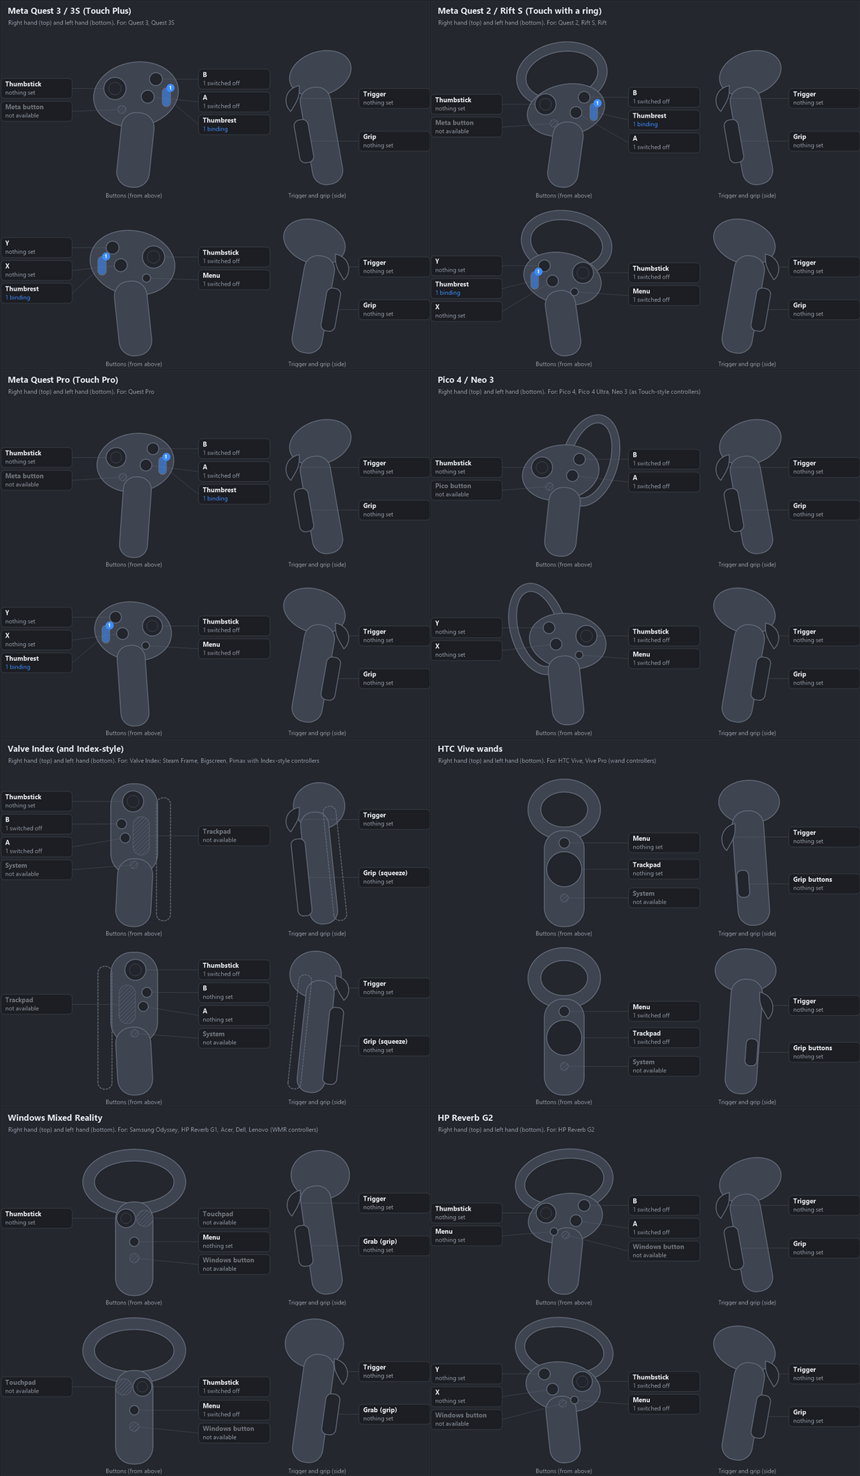
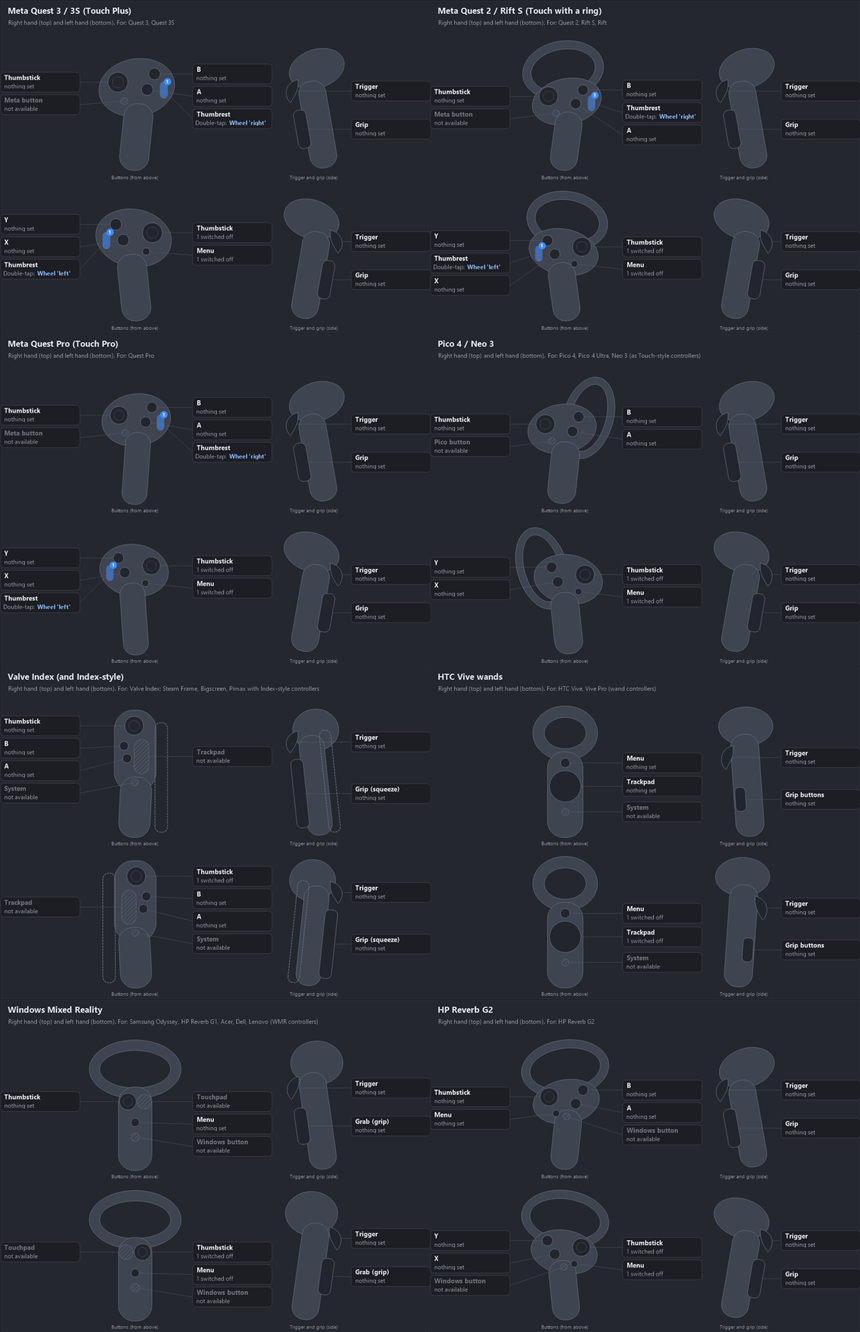
Controller pages: tags around the picture list what each button does (SteamVR style: 'Press: Space', 'shift · Press: F5'); picture grows to fit; bigger tag text

diff --git a/editor/ControllerPicture.cs b/editor/ControllerPicture.cs
@@ -5,22 +5,30 @@ namespace OpenXRCompanionEditor;
 // How many bindings a part has: switched on, and switched off.
 public readonly record struct PartUse(int On, int Off);
 
-// Draws one controller (a ControllerLayout, for one hand) with a name tag for each part, and says which part
-// was clicked. Parts that already do something get a count badge; the selected part is outlined.
+// One line in a part's tag: how it's used ("Press", "Hold", "Up") and what it does ("Space"); Layer when it only
+// works in a layer.
+public readonly record struct TagLine(string When, string Does, string Layer = null);
+
+// Draws one controller (a ControllerLayout, for one hand) with a tag for each part that lists what the part does,
+// like SteamVR's binding screen, and says which part was clicked. The selected part is outlined.
 public class ControllerPicture : Control
 {
     // Design canvas: [labels][top view][labels][side view][labels], see ControllerLayouts for the view sizes.
     // Top-view parts are named on whichever side of the top view they sit, so leader lines don't cross the body.
-    const float LabelWidth = 128, Gap = 10, CanvasMargin = 14, TagHeight = 34, TagGap = 5;
+    // Tags grow with their lines, and the canvas grows taller when a column of tags needs it.
+    const float LabelWidth = 158, Gap = 10, CanvasMargin = 14, TagGap = 5;
+    const float NameHeight = 19, LineHeight = 14.5f, MinTagHeight = 38;
+    const int MaxLines = 4;
     const float TopX = LabelWidth, MiddleX = TopX + ControllerLayouts.TopWidth + Gap;
     const float SideX = MiddleX + LabelWidth + Gap;
     const float CanvasWidth = SideX + ControllerLayouts.SideWidth + LabelWidth;
-    const float CanvasHeight = ControllerLayouts.Height + 2 * CanvasMargin;
+    const float ViewsHeight = ControllerLayouts.Height + 2 * CanvasMargin;
 
     ControllerLayout layout = ControllerLayouts.All[0];
     int hand = 1;
     string selected, hovered;
     Func<ControllerPart, PartUse> useOf = _ => default;
+    Func<ControllerPart, IReadOnlyList<TagLine>> linesOf = _ => Array.Empty<TagLine>();
     readonly List<(ControllerPart part, GraphicsPath shape, RectangleF tag)> hits = new();
 
     public event Action<ControllerPart> PartClicked;
@@ -31,14 +39,20 @@ public class ControllerPicture : Control
         Cursor = Cursors.Hand;
     }
 
-    public void ShowController(ControllerLayout newLayout, int newHand, string selectedComp, Func<ControllerPart, PartUse> use)
+    // lines: what each part does, listed in its tag (none: just "1 binding" and so on).
+    public void ShowController(ControllerLayout newLayout, int newHand, string selectedComp, Func<ControllerPart, PartUse> use,
+                               Func<ControllerPart, IReadOnlyList<TagLine>> lines = null)
     {
         layout = newLayout;
         hand = newHand;
         selected = selectedComp;
         useOf = use;
+        linesOf = lines ?? (_ => Array.Empty<TagLine>());
         Invalidate();
     }
+
+    // The height that shows the whole picture at this width.
+    public int HeightFor(int width) => (int)Math.Ceiling(width * CanvasHeight() / CanvasWidth);
 
     public string Selected
     {
@@ -47,21 +61,30 @@ public class ControllerPicture : Control
     }
 
     // A picture of one controller as a bitmap (previews and screenshots).
-    public static Bitmap Render(ControllerLayout layout, int hand, string selectedComp, Func<ControllerPart, PartUse> use, int width)
+    public static Bitmap Render(ControllerLayout layout, int hand, string selectedComp, Func<ControllerPart, PartUse> use, int width,
+                                Func<ControllerPart, IReadOnlyList<TagLine>> lines = null)
     {
-        using var pic = new ControllerPicture { Size = new Size(width, (int)(width * CanvasHeight / CanvasWidth)), BackColor = Theme.Card };
-        pic.ShowController(layout, hand, selectedComp, use);
+        using var pic = new ControllerPicture { Width = width, BackColor = Theme.Card };
+        pic.ShowController(layout, hand, selectedComp, use, lines);
+        pic.Height = pic.HeightFor(width);
         var bmp = new Bitmap(pic.Width, pic.Height);
         pic.DrawToBitmap(bmp, new Rectangle(Point.Empty, pic.Size));
         return bmp;
     }
 
     // ------------------------------------------------------------ geometry
+    float CanvasHeight()
+    {
+        var tags = TagBoxes(layout.PartsFor(hand).ToList());
+        return Math.Max(ViewsHeight, tags.Count == 0 ? 0 : tags.Values.Max(t => t.Bottom) + CanvasMargin);
+    }
+
     Matrix CanvasToScreen()
     {
-        float s = Math.Min(Width / CanvasWidth, Height / CanvasHeight);
+        float canvasHeight = CanvasHeight();
+        float s = Math.Min(Width / CanvasWidth, Height / canvasHeight);
         var m = new Matrix();
-        m.Translate((Width - CanvasWidth * s) / 2, (Height - CanvasHeight * s) / 2);
+        m.Translate((Width - CanvasWidth * s) / 2, 0);
         m.Scale(s, s);
         return m;
     }
@@ -178,7 +201,16 @@ public class ControllerPicture : Control
         _ => CanvasWidth - LabelWidth + 6,
     };
 
-    // Name tags at the height of their part, pushed apart so they never overlap.
+    // Lines shown in a tag: up to MaxLines, the last saying how many more when there are more.
+    int ShownLines(ControllerPart part)
+    {
+        int n = part.IsUsable ? linesOf(part).Count : 0;
+        return n <= MaxLines ? n : MaxLines;
+    }
+
+    float TagHeightOf(ControllerPart part) => Math.Max(MinTagHeight, NameHeight + 4 + Math.Max(1, ShownLines(part)) * LineHeight);
+
+    // Tags centred on their part's height, pushed down so they never overlap (the canvas grows to fit them).
     Dictionary<ControllerPart, RectangleF> TagBoxes(IReadOnlyList<ControllerPart> parts)
     {
         var tags = new Dictionary<ControllerPart, RectangleF>();
@@ -186,15 +218,15 @@ public class ControllerPicture : Control
         {
             float x = ColumnX(col);
             var column = parts.Where(p => ColumnOf(p) == col)
-                              .Select(p => (part: p, y: Place(p.View, p.Box).Y + p.Box.Height / 2 - TagHeight / 2))
+                              .Select(p => (part: p, h: TagHeightOf(p), y: Place(p.View, p.Box).Y + p.Box.Height / 2 - TagHeightOf(p) / 2))
                               .OrderBy(t => t.y).ToList();
-            var ys = column.Select(t => t.y).ToArray();
-            for (int i = 0; i < ys.Length; i++) // down: no overlap with the tag above
-                ys[i] = Math.Max(ys[i], i == 0 ? CanvasMargin : ys[i - 1] + TagHeight + TagGap);
-            for (int i = ys.Length - 1; i >= 0; i--) // up: stay on the canvas
-                ys[i] = Math.Min(ys[i], i == ys.Length - 1 ? CanvasHeight - CanvasMargin - TagHeight : ys[i + 1] - TagHeight - TagGap);
-            for (int i = 0; i < column.Count; i++)
-                tags[column[i].part] = new RectangleF(x, ys[i], LabelWidth - 6, TagHeight);
+            float next = CanvasMargin;
+            foreach (var (part, h, y) in column)
+            {
+                float top = Math.Max(y, next);
+                tags[part] = new RectangleF(x, top, LabelWidth - 6, h);
+                next = top + h + TagGap;
+            }
         }
         return tags;
     }
@@ -237,8 +269,8 @@ public class ControllerPicture : Control
         using var f = new Font("Segoe UI", 7.5f);
         using var b = new SolidBrush(Theme.SubText);
         var center = new StringFormat { Alignment = StringAlignment.Center };
-        g.DrawString("Buttons (from above)", f, b, new RectangleF(TopX, CanvasHeight - CanvasMargin + 1, ControllerLayouts.TopWidth, 14), center);
-        g.DrawString("Trigger and grip (side)", f, b, new RectangleF(SideX - 10, CanvasHeight - CanvasMargin + 1, ControllerLayouts.SideWidth + 20, 14), center);
+        g.DrawString("Buttons (from above)", f, b, new RectangleF(TopX, ViewsHeight - CanvasMargin + 1, ControllerLayouts.TopWidth, 14), center);
+        g.DrawString("Trigger and grip (side)", f, b, new RectangleF(SideX - 10, ViewsHeight - CanvasMargin + 1, ControllerLayouts.SideWidth + 20, 14), center);
     }
 
     void DrawBody(Graphics g)
@@ -296,7 +328,7 @@ public class ControllerPicture : Control
     {
         var b = shape.GetBounds();
         var from = new PointF(b.X + b.Width / 2, b.Y + b.Height / 2);
-        var to = new PointF(ColumnOf(part) == TagColumn.Left ? tag.Right : tag.Left, tag.Y + tag.Height / 2);
+        var to = new PointF(ColumnOf(part) == TagColumn.Left ? tag.Right : tag.Left, tag.Y + Math.Min(tag.Height / 2, NameHeight));
         using var pen = new Pen(Color.FromArgb(part.Comp == selected ? 220 : 110, part.Comp == selected ? SelectedEdge : BodyEdge), part.Comp == selected ? 1.6f : 1f);
         g.DrawLine(pen, from, to);
     }
@@ -313,17 +345,43 @@ public class ControllerPicture : Control
             g.FillPath(fill, p);
             g.DrawPath(edge, p);
         }
-        using var nameFont = new Font("Segoe UI", 8.5f, FontStyle.Bold);
-        using var subFont = new Font("Segoe UI", 7.5f);
+        using var nameFont = new Font("Segoe UI", 9.5f, FontStyle.Bold);
+        using var subFont = new Font("Segoe UI", 8.5f);
         using var text = new SolidBrush(part.IsUsable ? Theme.Text : Theme.OffText);
         using var sub = new SolidBrush(count > 0 ? Accent : Theme.SubText);
         var fmt = new StringFormat { Trimming = StringTrimming.EllipsisCharacter, FormatFlags = StringFormatFlags.NoWrap };
         g.DrawString(part.LabelFor(hand), nameFont, text, new RectangleF(tag.X + 6, tag.Y + 2, tag.Width - 10, 16), fmt);
-        string status = !part.IsUsable ? "not available"
-                        : count > 0 ? (count == 1 ? "1 binding" : count + " bindings") + (use.Off > 0 ? $", {use.Off} off" : "")
-                        : use.Off > 0 ? $"{use.Off} switched off"
-                                      : "nothing set";
-        g.DrawString(status, subFont, sub, new RectangleF(tag.X + 6, tag.Y + 17, tag.Width - 10, 14), fmt);
+        var lines = part.IsUsable ? linesOf(part) : Array.Empty<TagLine>();
+        if (lines.Count == 0)
+        {
+            string status = !part.IsUsable ? "not available"
+                            : count > 0 ? (count == 1 ? "1 binding" : count + " bindings") + (use.Off > 0 ? $", {use.Off} off" : "")
+                            : use.Off > 0 ? $"{use.Off} switched off"
+                                          : "nothing set";
+            g.DrawString(status, subFont, sub, new RectangleF(tag.X + 6, tag.Y + NameHeight, tag.Width - 10, 14), fmt);
+            return;
+        }
+        using var whenBrush = new SolidBrush(Theme.SubText);
+        using var doesBrush = new SolidBrush(Theme.IsDark ? Color.FromArgb(140, 190, 255) : Color.FromArgb(30, 95, 200));
+        using var doesFont = new Font("Segoe UI", 8.5f, FontStyle.Bold);
+        using var exact = (StringFormat)StringFormat.GenericTypographic.Clone();
+        exact.FormatFlags |= StringFormatFlags.MeasureTrailingSpaces; // keep the space after "Press:"
+        int shown = ShownLines(part);
+        for (int i = 0; i < shown; i++)
+        {
+            float y = tag.Y + NameHeight + i * LineHeight;
+            bool isMoreLine = i == MaxLines - 1 && lines.Count > MaxLines;
+            if (isMoreLine)
+            {
+                g.DrawString($"+ {lines.Count - MaxLines + 1} more", subFont, whenBrush, new RectangleF(tag.X + 6, y, tag.Width - 10, 14), fmt);
+                break;
+            }
+            var line = lines[i];
+            string when = (line.Layer != null ? line.Layer + " · " : "") + line.When + ": ";
+            float whenWidth = g.MeasureString(when, subFont, PointF.Empty, exact).Width;
+            g.DrawString(when, subFont, whenBrush, new PointF(tag.X + 6, y), exact);
+            g.DrawString(line.Does, doesFont, doesBrush, new RectangleF(tag.X + 6 + whenWidth, y, tag.Width - 12 - whenWidth, 14), fmt);
+        }
     }
 
     // ------------------------------------------------------------ mouse

diff --git a/editor/ControllerButtonsPage.cs b/editor/ControllerButtonsPage.cs
@@ -48,6 +48,7 @@ public class ControllerButtonsPage : UserControl
         chooserRow.Controls.Add(models);
 
         picture.BackColor = Theme.Card;
+        picture.SizeChanged += (s, e) => FitPictureHeight();
         picture.PartClicked += part =>
         {
             lastSelected[hand] = part.Comp;
@@ -89,7 +90,8 @@ public class ControllerButtonsPage : UserControl
     void ShowAll()
     {
         models.Text = "For: " + layout.Models;
-        picture.ShowController(layout, hand, SelectedPart?.Comp, p => QuickBindings.UseOf(profile.Bindings, hand, p));
+        picture.ShowController(layout, hand, SelectedPart?.Comp, p => QuickBindings.UseOf(profile.Bindings, hand, p), p => TagLinesOf(profile.Bindings, hand, p));
+        FitPictureHeight();
         ShowDetails();
     }
 
@@ -157,6 +159,50 @@ public class ControllerButtonsPage : UserControl
         return card;
     }
 
+    // The picture grows with its tags (a tag lists what its part does).
+    void FitPictureHeight()
+    {
+        int h = picture.HeightFor(Math.Max(picture.Width, 1));
+        if (picture.Width > 0 && picture.Height != h)
+            picture.Height = h;
+    }
+
+    // What a part's tag lists, SteamVR style: one line per switched-on binding, normal ones first, layer ones after.
+    public static IReadOnlyList<TagLine> TagLinesOf(IEnumerable<BindingModel> bindings, int hand, ControllerPart part)
+    {
+        var lines = new List<TagLine>();
+        if (!part.IsUsable)
+            return lines;
+        foreach (bool layerOnes in new[] { false, true })
+            foreach (var way in part.Ways)
+            {
+                string input = ControllerLayouts.InputOf(hand, part, way);
+                foreach (var b in bindings.Where(b => b.Enabled && IsLayerOnly(b) == layerOnes && QuickBindings.FiredBy(b, input)))
+                    lines.Add(new TagLine(ShortWhen(part, way, b), DoesText(b.Action), layerOnes ? b.Layers : null));
+            }
+        return lines;
+    }
+
+    // "Press", "Hold", "Touch", "Up", "Up, hold", "Pull"...
+    static string ShortWhen(ControllerPart part, string way, BindingModel b)
+    {
+        string gesture = WhenText(b);
+        string wayWord = way switch
+        {
+            "touch" => "Touch",
+            "up" => "Up",
+            "down" => "Down",
+            "left" => "Left",
+            "right" => "Right",
+            _ => null,
+        };
+        if (wayWord == null && b.Gesture == GestureKind.Press)
+            return part.Comp switch { "trigger" => "Pull", "grip" => "Squeeze", "thumbrest" => "Touch", _ => gesture };
+        if (wayWord == null)
+            return gesture;
+        return b.Gesture == GestureKind.Press ? wayWord : wayWord + ", " + gesture.ToLowerInvariant();
+    }
+
     static bool IsTouchOnly(ControllerPart part, string way) => way == "touch" || part.Comp == "thumbrest";
 
     static bool IsLayerOnly(BindingModel b) => !string.IsNullOrWhiteSpace(b.Layers);
@@ -185,6 +231,10 @@ public class ControllerButtonsPage : UserControl
             ActionType.Key => (a.Keys ?? "?") + mode,
             ActionType.XrInput => "Game sees " + InputText.Friendly(a.Target),
             ActionType.None => "Nothing: off in the game",
+            ActionType.Wheel => $"Wheel '{a.Wheel}'",
+            ActionType.Keyboard => "VR keyboard",
+            ActionType.Layer => $"Layer '{a.Layer}'" + mode,
+            ActionType.Sequence => "Macro",
             _ => MainForm.Plain(a),
         };
     }

diff --git a/editor/ControllerSetup.cs b/editor/ControllerSetup.cs
@@ -209,8 +209,8 @@ public partial class MainForm
         var sheets = new List<Bitmap>();
         foreach (var layout in ControllerLayouts.All)
         {
-            using var right = ControllerPicture.Render(layout, 1, null, p => QuickBindings.UseOf(profile.Bindings, 1, p), width);
-            using var left = ControllerPicture.Render(layout, 0, null, p => QuickBindings.UseOf(profile.Bindings, 0, p), width);
+            using var right = ControllerPicture.Render(layout, 1, null, p => QuickBindings.UseOf(profile.Bindings, 1, p), width, p => ControllerButtonsPage.TagLinesOf(profile.Bindings, 1, p));
+            using var left = ControllerPicture.Render(layout, 0, null, p => QuickBindings.UseOf(profile.Bindings, 0, p), width, p => ControllerButtonsPage.TagLinesOf(profile.Bindings, 0, p));
             var sheet = new Bitmap(width, right.Height + left.Height + 64);
             using (var g = Graphics.FromImage(sheet))
             {
@@ -229,14 +229,14 @@ public partial class MainForm
             sheets.Add(sheet);
         }
         // All of them on one page, two across, at half size.
-        int cols = 2, cellW = width / 2, cellH = sheets[0].Height / 2;
+        int cols = 2, cellW = width / 2, cellH = sheets.Max(s => s.Height) / 2; // tags make some taller
         using var all = new Bitmap(cols * cellW, (sheets.Count + cols - 1) / cols * cellH);
         using (var g = Graphics.FromImage(all))
         {
             g.Clear(Theme.Page);
             g.InterpolationMode = System.Drawing.Drawing2D.InterpolationMode.HighQualityBicubic;
             for (int i = 0; i < sheets.Count; i++)
-                g.DrawImage(sheets[i], i % cols * cellW, i / cols * cellH, cellW, cellH);
+                g.DrawImage(sheets[i], i % cols * cellW, i / cols * cellH, cellW, sheets[i].Height / 2);
         }
         all.Save(Path.Combine(dir, "controllers_all.png"));
         foreach (var s in sheets)
